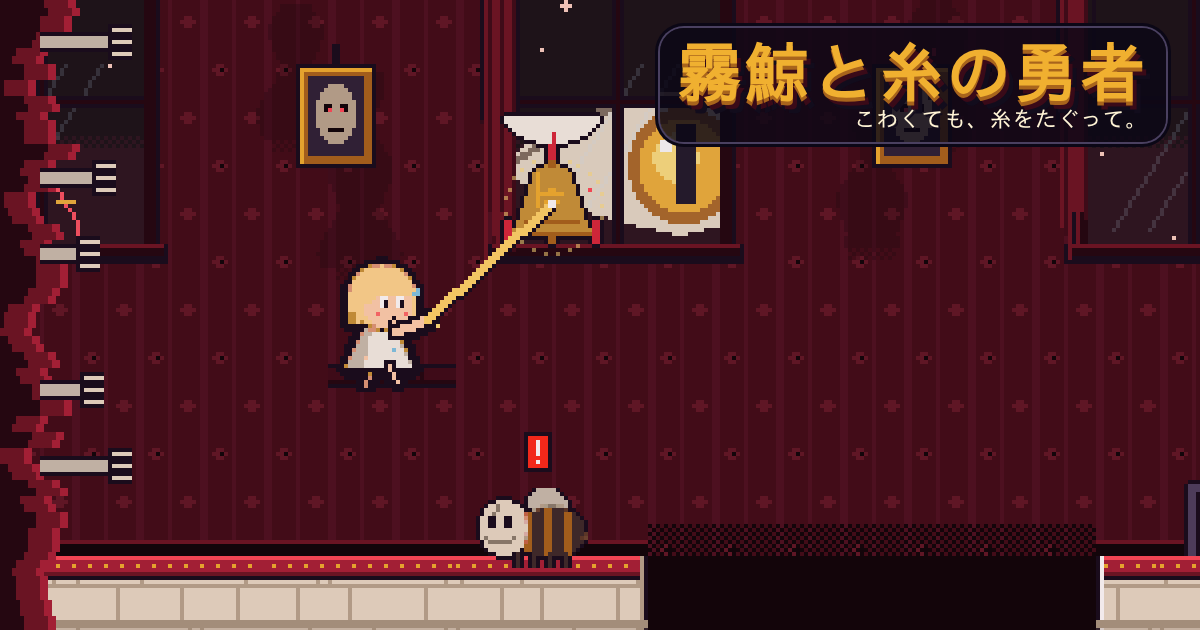
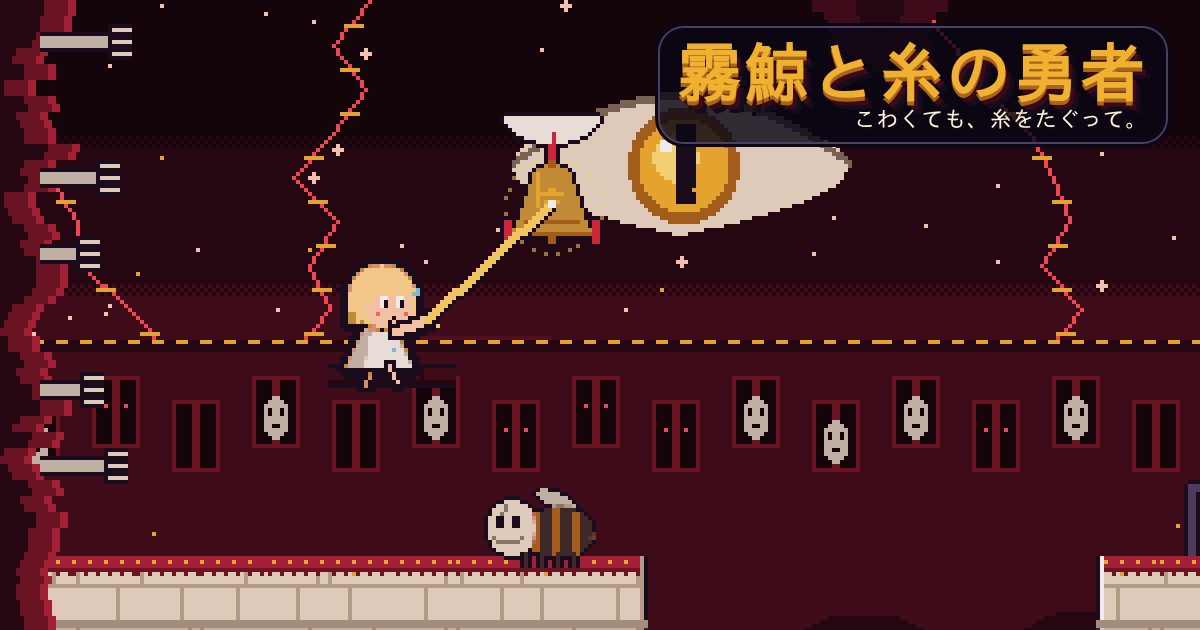
霧鯨と糸の勇者：面ごとに室内と屋外を混ぜる（屋根・森・赤い海）。屋外では窓の顔が家の窓から身を乗りだす
Claude-Session: https://claude.ai/code/session_01MokQnt7AyWkb7A3uAYuoAR

diff --git a/site/games/mist-whale-thread-hero/levels.js b/site/games/mist-whale-thread-hero/levels.js
@@ -35,7 +35,7 @@ export const CHAPTERS = [
 export const LEVELS = [
   // ───────── 第一章『眠る家』 ─────────
   {
-    name: '廊下の扉', chapter: 0, gimmick: '糸でフックへ渡る', par: 31,
+    name: '廊下の扉', scene: 'room', chapter: 0, gimmick: '糸でフックへ渡る', par: 31,
     lines: [{ c: 3, text: '……ここ、どこ？ 知らない家の廊下。……うちに、似てる。' }, { c: 40, text: '鈴の音。ここなら、だれも怒らない。' }],
     hints: [
       { c: 0, text: '← → で走る ／ Space で跳ぶ' },
@@ -55,7 +55,7 @@ export const LEVELS = [
     }),
   },
   {
-    name: '鈴の渡り廊下', chapter: 0, gimmick: '鈴レバーで橋を出す', par: 35,
+    name: '鈴の渡り廊下', scene: 'room', chapter: 0, gimmick: '鈴レバーで橋を出す', par: 35,
     lines: [{ c: 5, text: '窓に明かり。だれか起きてるの……？' }, { c: 42, text: '……見てる。窓から見られるのは、きらい。' }],
     hints: [
       { c: 0, text: 'レバーにも糸が届く。引けば橋が出る' },
@@ -76,8 +76,8 @@ export const LEVELS = [
     }),
   },
   {
-    name: '蛾の舞う客間', chapter: 0, gimmick: '影蛾を糸で縛る・鈴へ引く', par: 36,
-    lines: [{ c: 4, text: '蛾の羽に、目。夢だから平気。……平気。' }, { c: 50, text: '鈴をひとつ鳴らすたび、遠くの声が小さくなる。' }],
+    name: '蛾の舞う屋根', scene: 'out', chapter: 0, gimmick: '影蛾を糸で縛る・鈴へ引く', par: 36,
+    lines: [{ c: 4, text: '窓から、屋根の上へ。蛾の羽に、目。……平気。' }, { c: 50, text: '鈴をひとつ鳴らすたび、遠くの声が小さくなる。' }],
     hints: [
       { c: 0, text: '影蛾は糸で縛れる。もう一度 J で手元へ引く' },
       { c: 28, text: '蛾を鈴スイッチに通すと橋が鳴る' },
@@ -94,7 +94,7 @@ export const LEVELS = [
     }),
   },
   {
-    name: '吹き抜けの階段', chapter: 0, gimmick: '上昇風に乗る', par: 32,
+    name: '吹き抜けの階段', scene: 'room', chapter: 0, gimmick: '上昇風に乗る', par: 32,
     lines: [{ c: 3, text: '風が上へ上へと呼んでいる。ここなら、届かない。' }, { c: 40, text: '遠くにもう一頭の鯨。あの子も、眠ったふりをしてるの？' }],
     hints: [
       { c: 0, text: '白い風の柱に飛びこむと、上の階へ運ばれる' },
@@ -113,7 +113,7 @@ export const LEVELS = [
     }),
   },
   {
-    name: '屋根裏の鐘楼', chapter: 0, gimmick: '追ってくる鎧蜂・鐘を2つ鳴らす', par: 38, chase: true,
+    name: '屋根の上の鐘楼', scene: 'out', chapter: 0, gimmick: '追ってくる鎧蜂・鐘を2つ鳴らす', par: 38, chase: true,
     lines: [{ c: 14, text: '仮面の蜂。笑った顔のまま、追いかけてくる。' }, { c: 60, text: '鐘が鳴った。……下の部屋の音が、少しだけ聞こえた。' }],
     hints: [
       { c: 0, text: '鎧蜂が追ってくる！ 鐘を2つ鳴らせば灯台が開く' },
@@ -132,8 +132,8 @@ export const LEVELS = [
   },
   // ───────── 第二章『森に呑まれた家』 ─────────
   {
-    name: '種の回廊', chapter: 1, gimmick: '巨大な種を押す・引く', par: 34,
-    lines: [{ c: 3, text: '家の中まで、森が入りこんでる。暗いけど、静か。' }, { c: 45, text: '種の中で、だれかが息をひそめている。わたしと同じ。' }],
+    name: '種の森', scene: 'out', chapter: 1, gimmick: '巨大な種を押す・引く', par: 34,
+    lines: [{ c: 3, text: '扉の外は、森だった。暗いけど、静か。' }, { c: 45, text: '種の中で、だれかが息をひそめている。わたしと同じ。' }],
     hints: [
       { c: 0, text: '大きな種は押せる。糸で引き寄せもできる' },
       { c: 16, text: '種を鈴スイッチへ。扉が開く' },
@@ -150,7 +150,7 @@ export const LEVELS = [
     }),
   },
   {
-    name: '青い霧の食堂', chapter: 1, gimmick: '牙灯の光線をかわす', par: 42,
+    name: '青い霧の食堂', scene: 'room', chapter: 1, gimmick: '牙灯の光線をかわす', par: 42,
     lines: [{ c: 3, text: 'この提灯、まばたきした。大人の目に、似てる。' }, { c: 60, text: '「どこに隠れてるの？」……夢の中まで、聞こえる。' }],
     sounds: [{ c: 55, kind: 'dish', text: 'ガシャン……！' }],
     hints: [
@@ -168,7 +168,7 @@ export const LEVELS = [
     }),
   },
   {
-    name: '落ち葉の吹き抜け', chapter: 1, gimmick: '乗るとくずれる葉の足場', par: 45,
+    name: '落ち葉の空路', scene: 'out', chapter: 1, gimmick: '乗るとくずれる葉の足場', par: 45,
     lines: [{ c: 3, text: '足もとが崩れる。いい子にしてないと、崩れる。' }, { c: 48, text: '下を見ちゃだめ。下を見ちゃだめ。' }],
     hints: [
       { c: 0, text: '葉の足場は乗るとくずれる。止まらずに渡れ' },
@@ -185,7 +185,7 @@ export const LEVELS = [
     }),
   },
   {
-    name: '星の天井', chapter: 1, gimmick: 'フックを空中で順番につなぐ', par: 40,
+    name: '星の遊歩道', scene: 'out', chapter: 1, gimmick: 'フックを空中で順番につなぐ', par: 40,
     lines: [{ c: 3, text: '星のフックは、一度しか待ってくれない。' }, { c: 50, text: '鯨の歌。わたしの代わりに、泣いてるみたい。' }],
     hints: [
       { c: 0, text: 'フックからフックへ。→を押しながら、飛んでいる間に次の糸！' },
@@ -202,7 +202,7 @@ export const LEVELS = [
     }),
   },
   {
-    name: '鱗の浴室', chapter: 1, gimmick: '海蛇を縛って橋にする', par: 42,
+    name: '鱗の浴室', scene: 'room', chapter: 1, gimmick: '海蛇を縛って橋にする', par: 42,
     lines: [{ c: 3, text: '白い蛇。鱗がぜんぶ目で、ぜんぶこっちを見てる。' }, { c: 70, text: 'ドアの閉まる音がした。夢の、外で。' }],
     sounds: [{ c: 67, kind: 'door', text: 'バタン' }],
     hints: [
@@ -221,7 +221,7 @@ export const LEVELS = [
   },
   // ───────── 第三章『鯨の夢の底』 ─────────
   {
-    name: '糸喰いの物置', chapter: 2, gimmick: '糸喰いが糸を切る', par: 42,
+    name: '糸喰いの物置', scene: 'room', chapter: 2, gimmick: '糸喰いが糸を切る', par: 42,
     lines: [{ c: 3, text: '暗い。糸の光だけが、わたしの味方。' }, { c: 60, text: '糸を食べる子。おなかが空いてるの、わかるよ。' }],
     hints: [
       { c: 0, text: '糸喰いの近くで糸を投げると、食いちぎられる' },
@@ -243,11 +243,11 @@ export const LEVELS = [
     }),
   },
   {
-    name: '窓だらけの廊下', chapter: 2, gimmick: '影蛾と鎧蜂の複合', par: 43,
-    lines: [{ c: 3, text: '廊下の窓。どの窓にも、知ってる顔。' }, { c: 60, text: '伸びてくる手。あの手は、知ってる手。' }],
+    name: '窓だらけの屋根', scene: 'out', chapter: 2, gimmick: '影蛾と鎧蜂の複合', par: 43,
+    lines: [{ c: 3, text: '屋根の窓。どの窓にも、知ってる顔。' }, { c: 60, text: '伸びてくる手。あの手は、知ってる手。' }],
     hints: [
-      { c: 0, text: '上の棚は鎧蜂の通り道。予告の「！」を見て跳べ' },
-      { c: 27, text: '下の床か、上の棚か' },
+      { c: 0, text: '屋根の上は鎧蜂の通り道。予告の「！」を見て跳べ' },
+      { c: 27, text: '下の通りか、上の屋根か' },
       { c: 41, text: '蛾を鈴へ引けば橋が出る' },
     ],
     rows: build(90, ({ g, f, p }) => {
@@ -262,7 +262,7 @@ export const LEVELS = [
     }),
   },
   {
-    name: '夜縫いの時計', chapter: 2, gimmick: '時間で開閉する門・時計の鐘', par: 43,
+    name: '夜縫いの時計', scene: 'room', chapter: 2, gimmick: '時間で開閉する門・時計の鐘', par: 43,
     lines: [{ c: 3, text: '時計の音。夢には、朝が来ないはずなのに。' }, { c: 60, text: '針が進むたび、鯨が薄くなっていく。' }],
     hints: [
       { c: 0, text: '時計の門は2秒ごとに開閉する' },
@@ -282,7 +282,7 @@ export const LEVELS = [
     }),
   },
   {
-    name: '白い舟', chapter: 2, gimmick: '雲の舟を糸で引く', par: 45,
+    name: '白い舟の海', scene: 'out', chapter: 2, gimmick: '雲の舟を糸で引く', par: 45,
     lines: [{ c: 3, text: '雲の舟。最後の、逃げ道。' }, { c: 70, text: '赤いほつれは、夢を食べてるんじゃない。わたしを、起こしに来てる。' }],
     hints: [
       { c: 0, text: '雲の舟に糸をかけると、手元へ引き寄せられる' },
@@ -298,11 +298,11 @@ export const LEVELS = [
     }),
   },
   {
-    name: '最後の縫い目', chapter: 2, gimmick: '夢のほつれから逃げ、鐘を3つ', par: 50,
+    name: '最後の縫い目', scene: 'out', chapter: 2, gimmick: '夢のほつれから逃げ、鐘を3つ', par: 50,
     lines: [{ c: 6, text: '来た……！ 走らなきゃ。' }, { c: 60, text: 'あとひとつ鳴らしたら、目が覚めちゃう。……それでも。' }],
     hints: [
       { c: 0, text: '夢のほつれが来る！ 走れ。鐘を3つ鳴らせ' },
-      { c: 38, text: '風の柱で上へ。2つめの鐘は天井の近く' },
+      { c: 38, text: '風の柱で上へ。2つめの鐘は空の上' },
       { c: 80, text: '最後の鐘。そして灯台へ' },
     ],
     rows: build(110, ({ g, f, v, p }) => {

diff --git a/site/games/mist-whale-thread-hero/pixart.js b/site/games/mist-whale-thread-hero/pixart.js
@@ -330,9 +330,10 @@ export const CH = [
     thorn: '#3a0a18', thornTip: '#ff4a5a', mist: '#ff4a5a', mistD: '#a82038',
   },
 ];
+const OUTTOP = [['#3a6a50', '#24484a'], ['#2fa06a', '#1b6a4a'], ['#a82038', '#6a1424']];
 const tileCache = new Map();
-function tile(ch, kind, v = 0) {
-  const key = `${ch}:${kind}:${v}`;
+function tile(ch, kind, v = 0, out = false) {
+  const key = `${ch}:${kind}:${v}:${out ? 1 : 0}`;
   if (tileCache.has(key)) return tileCache.get(key);
   const P = CH[ch];
   const c = document.createElement('canvas'); c.width = 16; c.height = 16;
@@ -346,7 +347,16 @@ function tile(ch, kind, v = 0) {
       if (ch === 0) { for (let i = 0; i < 3; i++) { const x = Math.floor(r(i) * 13); const y = Math.floor(r(i + 5) * 13) + 2; g.fillRect(x, y, 3, 1); g.fillRect(x + 1, y + 1, 1, 1); } if (r(9) < 0.4) { g.fillStyle = P.barn; g.fillRect(5, 8, 4, 3); g.fillStyle = P.barnD; g.fillRect(6, 9, 2, 2); } }
       else if (ch === 1) { for (let i = 0; i < 4; i++) { g.fillRect(Math.floor(r(i) * 15), Math.floor(r(i + 3) * 15), 2, 1); } if (r(8) < 0.35) { g.fillStyle = P.barn; g.fillRect(Math.floor(r(7) * 12) + 2, 10, 1, 4); g.fillRect(Math.floor(r(7) * 12) + 1, 13, 3, 1); } }
       else { g.fillRect(0, 7, 16, 1); g.fillRect(Math.floor(r(1) * 14), 0, 1, 7); g.fillRect(Math.floor(r(2) * 14), 8, 1, 8); g.fillStyle = P.skinL; g.fillRect(1, 1, 2, 1); if (r(4) < 0.4) { g.fillStyle = P.barn; g.fillRect(5, 3, 1, 1); g.fillRect(7, 3, 1, 1); g.fillRect(6, 4, 1, 1); } }
-      if (kind === 'top') {
+      if (kind === 'top' && out) {
+        // 屋外：草・光る苔・赤い縫い目の地面
+        const O = OUTTOP[ch];
+        g.fillStyle = P.skinL; g.fillRect(0, 3, 16, 1);
+        g.fillStyle = O[0]; g.fillRect(0, 0, 16, 3);
+        g.fillStyle = O[1]; g.fillRect(0, 3, 16, 1); for (let x = 0; x < 16; x += 3) g.fillRect(x + (v % 2), 4, 1, 1);
+        g.fillStyle = O[0]; for (let i = 0; i < 3; i++) { const x = Math.floor(r(i + 11) * 15); g.fillRect(x, 0, 1, 1); }
+        if (ch === 1 && r(12) < 0.5) { g.fillStyle = '#c8ff9a'; g.fillRect(Math.floor(r(13) * 14), 1, 1, 1); }
+        if (ch === 2) { g.fillStyle = '#f0b030'; for (let x = (v % 2) * 2; x < 16; x += 4) g.fillRect(x, 1, 1, 1); }
+      } else if (kind === 'top') {
         // 家の床：板張り（森は苔むし、奥の部屋は赤い絨毯）
         g.fillStyle = OUT; g.fillRect(0, 5, 16, 1);
         g.fillStyle = P.top; g.fillRect(0, 0, 16, 5);
@@ -408,7 +418,7 @@ export function drawTiles(ctx, st, ch, c0, c1, r0, r1, t) {
         case '#': {
           const top = r > 0 && T(c, r - 1) !== '#';
           const v = Math.floor(hash(c * 7 + r * 13) * 4);
-          ctx.drawImage(tile(ch, top ? 'top' : 'fill', v), x, y);
+          ctx.drawImage(tile(ch, top ? 'top' : 'fill', v, st.def.scene === 'out'), x, y);
           if (c > 0 && T(c - 1, r) !== '#') { ctx.fillStyle = OUT; ctx.fillRect(x, y, 1, 16); ctx.fillStyle = P.skinL; ctx.fillRect(x + 1, y, 1, 16); }
           if (c < st.w - 1 && T(c + 1, r) !== '#') { ctx.fillStyle = OUT; ctx.fillRect(x + 15, y, 1, 16); ctx.fillStyle = P.skinD; ctx.fillRect(x + 14, y, 1, 16); }
           if (!top && r > 0 && T(c, r - 1) === '#' && r - 1 >= 0 && T(c, r - 2) !== '#') { ctx.fillStyle = P.skinD; ctx.fillRect(x, y, 16, 2); }

diff --git a/site/games/mist-whale-thread-hero/room.js b/site/games/mist-whale-thread-hero/room.js
@@ -66,6 +66,7 @@ function floorTop(st, c) {
 export function drawRoom(ctx, st, ch, c0, c1, yTop, yBot, t) {
   const P = ROOM[ch]; const R = roomOf(st);
   for (const m of R.mon) m.e.ch = ch;
+  if (st.def.scene === 'out') { drawFacades(ctx, st, ch, c0, c1, t); return; }
   const x0 = c0 * 16; const x1 = (c1 + 1) * 16;
   const holes = [...R.wins, ...R.mon].filter((w) => w.x1 > x0 && w.x0 < x1);
   const lowY = 176;
@@ -128,6 +129,35 @@ export function drawRoom(ctx, st, ch, c0, c1, yTop, yBot, t) {
     if (h.gone) continue; const hx = Math.round(h.x * K); const hy = Math.round(h.y * K) - 8;
     if (hx < x0 || hx > x1 || hy <= CEIL + 2) continue;
     ctx.fillRect(hx, CEIL, 1, hy - CEIL);
+  }
+}
+
+// 屋外の面：窓の顔は、建物の窓の奥から外へ身を乗りだす
+const FACADE = [
+  { wall: '#2a1c18', board: '#3a2418', roof: '#16303a', roofL: '#24484a' },
+  { wall: '#14201a', board: '#1e1414', roof: '#0c2a20', roofL: '#1b6a4a' },
+  { wall: '#2a0610', board: '#3a0a18', roof: '#1e0610', roofL: '#6a1424' },
+];
+function drawFacades(ctx, st, ch, c0, c1, t) {
+  const R = roomOf(st); const F = FACADE[ch]; const x0 = c0 * 16; const x1 = (c1 + 1) * 16;
+  for (const w of R.mon) {
+    if (w.x1 + 40 < x0 || w.x0 - 40 > x1) continue;
+    const L = w.x0 - 16; const Rr = w.x1 + 16; const top = w.y0 - 14; const bot = w.y1 + 60;
+    // 傾いた家の壁と三角屋根
+    ctx.fillStyle = OUT; ctx.fillRect(L - 1, top - 1, Rr - L + 2, bot - top + 1);
+    ctx.fillStyle = F.wall; ctx.fillRect(L, top, Rr - L, bot - top);
+    ctx.fillStyle = F.board; for (let y = top + 4; y < bot; y += 6) ctx.fillRect(L, y, Rr - L, 1);
+    const cx = (L + Rr) / 2; const rh = 30;
+    for (let i = 0; i <= rh; i++) {
+      const hw = Math.round((Rr - L) / 2 + 8 - i * ((Rr - L) / 2 + 8) / rh);
+      ctx.fillStyle = OUT; ctx.fillRect(Math.round(cx) - hw - 1, top - i, hw * 2 + 2, 1);
+      ctx.fillStyle = i < 3 ? F.roofL : F.roof; ctx.fillRect(Math.round(cx) - hw, top - i, hw * 2, 1);
+    }
+    ctx.fillStyle = F.roof; ctx.fillRect(Rr - 14, top - 26, 6, 14); ctx.fillStyle = OUT; ctx.fillRect(Rr - 15, top - 27, 8, 2);
+    // 窓の奥は真っ暗な部屋（かすかなランプ）
+    ctx.fillStyle = '#0a0408'; ctx.fillRect(w.x0, w.y0, w.x1 - w.x0, w.y1 - w.y0);
+    ctx.fillStyle = 'rgba(255,211,106,.08)'; ctx.fillRect(w.x0 + 4, w.y0 + 8, 12, 20);
+    drawWindowFrame(ctx, w, ch, st.dread || 0, t, true);
   }
 }
 
